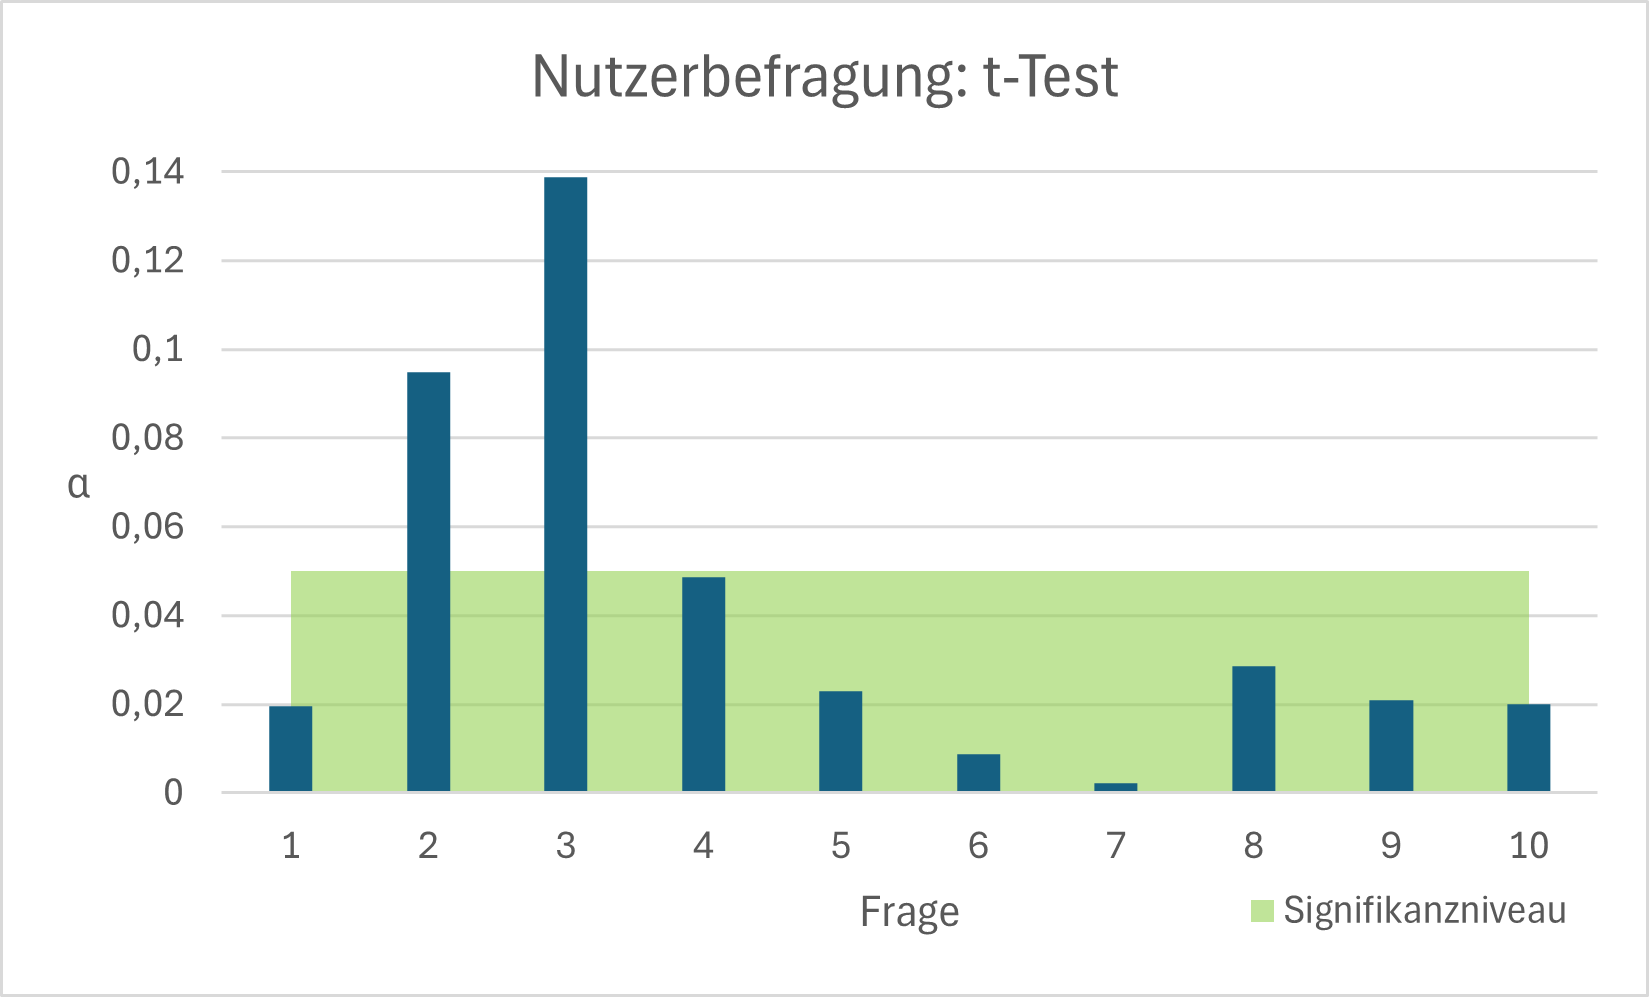
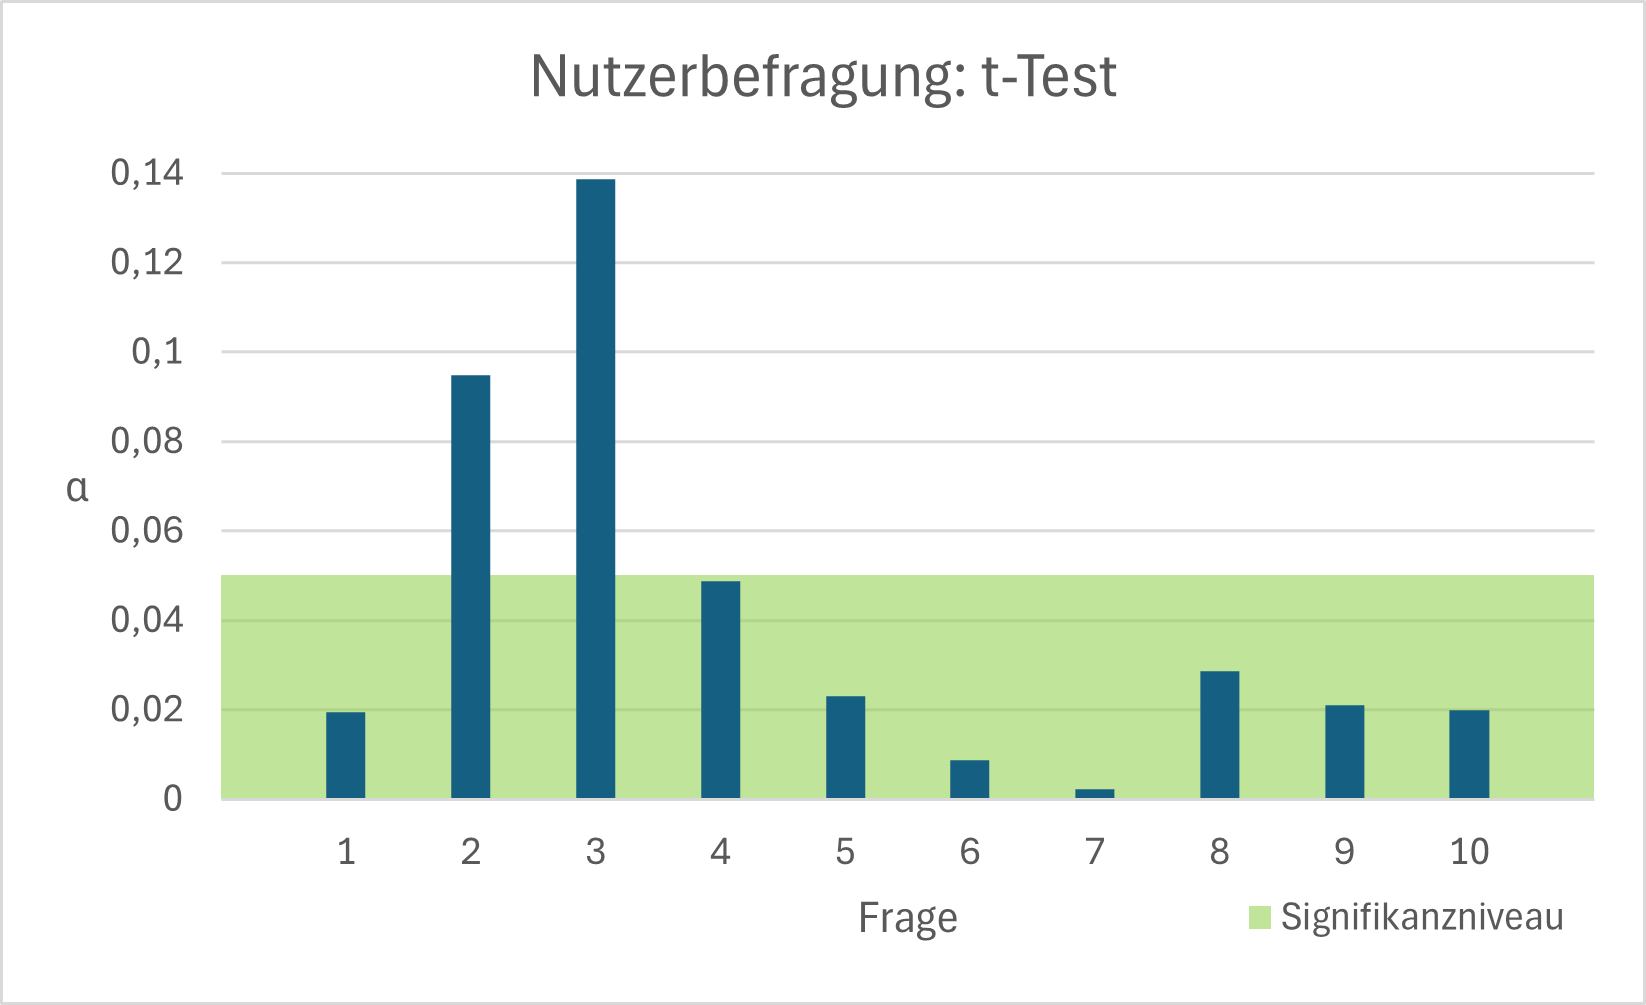
Zufriedenheit fertig

diff --git a/chapters/05_Ergebnisse/06c_Zufriedenheit.tex b/chapters/05_Ergebnisse/06c_Zufriedenheit.tex
@@ -1,28 +1,67 @@
-\subsection{\textcolor{Turquoise}{Auswertung der Zufriedenheit (H$_{3}$)}}
+\subsection{\textcolor{MidnightBlue}{Auswertung der Zufriedenheit (H$_{3}$)}}
 \label{ch:Ergebnisse:sec:Hypothesen_Auswertung:sub:Zufriedenheit}
 % Usability = 
 % - Satisfaction: Do users find the system enjoyable and pleasant to use? Are they satisfied with the overall experience?
 % Einfluss von Erwartungskonformität, Benutzerbindung, Steuerbarkeit
 
-Nutzer sind mit einem System zufrieden oder davon befriedigt, wenn sie die Nutzung angenehm und erfreulich finden. Dafür sollte es den Erwartungen der Nutzer entsprechen, leicht steuer- und navigierbar sein und eine Bindung zum Nutzer aufbauen. Die Zufriedenheit lässt sich dabei nicht in metrischen Kenngrößen erfassen, stattdessen aber in Form eines Spektrums anhand von Fragebögen (s. \autoref{ch:SdF:UI:ISO}).
+Nutzer sind mit einem System zufrieden oder davon befriedigt, wenn sie die Nutzung angenehm und erfreulich finden. Dafür muss es den Erwartungen der Nutzer entsprechen, leicht steuer- und navigierbar sein und eine Bindung zum Nutzer aufbauen. Die Zufriedenheit lässt sich dabei nicht in metrischen Kenngrößen erfassen, stattdessen aber beispielsweise in Form eines Spektrums anhand von Fragebögen (s. \autoref{ch:SdF:UI:ISO}).
 Folgende Hypothese ist zu bestätigen:
 \begin{quote}
     H$_{3}$ = Die Nutzung des neuen Systems ($\mu2$) beeinflusst die Bewertung ($b$) der Software positiv im Vergleich zur Nutzung des alten Systems ($\mu1$); $b(\mu1) < b(\mu2)$.
 \end{quote}
-...
+
+\noindent
+Das Spektrum der Antworten der Nutzerumfrage sind in \autoref{fig:pruemper_all} in Form eines Box-Plot zusammengefasst. Es ist eine Tendenz erkennbar, dass das neue System besser bewertet wurde. 
+
+\begin{figure}[H]
+    \centering
+    \includegraphics[width=1\linewidth]{Diagramme/pruemper_all.png}
+    \caption{Auswertung der Nutzerbefragung (Daten aus \autoref{tab:Nutzerbefragung:rohe_Daten}) \textcolor{red}{Titel ändern! y-Achsenbeschriftungen - gut(3) schlecht(-3)!}}
+    \label{fig:pruemper_all}
+\end{figure}
 
 % Boxplots
-\noindent
-\underline{s. \autoref{fig:pruemper_all}}\\
-- zeigt alle Antworten der Fragen in einem Diagramm\\
-- Tendenz zu neu besser Erkennbar (erst in Diskussion?)\\
-\textcolor{red}{- Kurzbeschreibung: Erklärung, wie Boxplots aufgebaut sind und funktionieren\\
--> 2 Sätze} % hatten wir potenziell in Mathe 2 (beschreibende Statistik)
+\definecolor{graublau}{rgb}{0.74, 0.83, 0.9}
+\noindent\fcolorbox{gray}{graublau}{
+\begin{minipage}[margin=1.5cm]
+{\dimexpr1\textwidth-2\fboxrule-3\fboxsep\relax}
+Ein \textbf{Box-Plot} ist ein Diagramm welches Lage- und Streuungsmaße abbildet. Die Daten werden von von einem Querstrich innerhalb der Box halbiert, welcher den \textit{Median} darstellt. Die \textit{Box} umfasst die mittleren 50\% der nach Rangfolge geordneten Daten. Das bedeutet, dass die Daten von der 25. bis 75. Perzentile oder auch vom 1. bis 3. \textit{Quartil} (Q1, Q3) dargestellt sind. Der Bereich dazwischen wird auch \textit{Interquartilsabstand} (en. interquartile range - IQR) genannt.
+%  Der Querstrich innerhalb der Box markiert den Median.
+
+\hspace{1.5mm}
+Außerhalb der Box stehen die \textit{Whiskers} (dt. Schnurrhaare). Die Länge der Whiskers ist durch den \textit{Zaun}, der Querstrich am Ende der Whiskers, begrenzt. Dieser befindet sich maximal 1,5 Interquartilsabstände von der Box entfernt. Liegt der äußerste Wert des Bereichs innerhalb des Zaun, wird der Whisker kürzer bis zu diesem äußersten Wert dargestellt.
+
+\hspace{1.5mm}
+Die Punkte außerhalb der Whiskers sind die \textit{Ausreißer} und werden hier als Punkte dargestellt. Ausreißer die außerhalb von drei IQR von der Box liegen werden als extreme Ausreißer bezeichnet. Liegen sie zwischen den dem Zaun und 3 IQR, sind es normale Ausreißer.\\
+
+\newenvironment{nospaceflalign*}
+ {\setlength{\abovedisplayskip}{0pt}\setlength{\belowdisplayskip}{0pt}%
+  \csname flalign*\endcsname}
+ {\csname endflalign*\endcsname\ignorespacesafterend}
+
+\underline{Beispiel Frage 4 - neues System (Daten aus \autoref{tab:Nutzerbefragung:rohe_Daten}):}
+\begin{nospaceflalign*}
+    \displaystyle
+        \text{Q1} &= \textbf{1}\\
+        \text{Q3} &= \textbf{2}\\
+        \text{IQR} &= Q3 - Q1 = 2 - 1 = \textbf{1}\\
+        \text{Whisker unten} &= Q1 - 1,5 * IQR = 1 - 1.5*1 = \textbf{-0.5} \Rightarrow 0\\
+        \text{Whisker oben} &= Q3 + 1,5 * IQR = 2 + 1.5*1 = \textbf{3.5} \Rightarrow 3\\
+        \text{Ausreißer} &: ~~\textbf{-2}
+\end{nospaceflalign*}
+\textcolor{graublau}{.}\hfill $\sim$ Zusammenfassung nach \cite{Statistik:Sedlmeier:2018}
+%Q1 $= \textbf{1}$\\
+%Q3 $= \textbf{2}$\\
+%IQR $= Q3 - Q1 = 2 - 1 = \textbf{1}$\\
+%hisker unten $= Q1 - 1,5 * IQR = 1 - 1.5*1 = \textbf{-0.5}$\\
+%hisker oben $= Q3 + 1,5 * IQR = 2 + 1.5*1 = \textbf{3.5}$\\
+%Ausreißer: $\textbf{-2}$
+\label{Definition_Boxplot}
+\end{minipage}}\\
 
 \noindent
-\underline{s. \autoref{tab:Nutzerbefragung:mittelwerte}}\\
-- Mittelwerte, Median, Standardabweichung\\
-- Differenzen
+Diese grafische Tendenz bestätigt sich durch die Differenzen der Mittelwerte (s. \autoref{tab:Nutzerbefragung:Differenz+ttest}). Der Ergebnis des alten Systems wurde von dem des neues Systems abgezogen. Da die Differenz bei jeder Frage positiv ist, wurde das neue System insgesamt besser bewertet als das alte.
+
 
 \begin{table}[H]
 \begin{center}
@@ -41,24 +80,31 @@ T-Test                                  & 0,0087 & 0,0021 & 0,0286 & 0,021 & 0,0
 \end{center}
 \end{table}
 
+\noindent
+Weiterhin weisen 80\% der Fragen anhand der t-Test-Ergebnisse einen statistisch signifikanten Unterschied auf (s. \autoref{fig:Nutzerbefragung:ttest+Signifikanzniveau}).
+
 \begin{figure}[H]
     \centering
     \includegraphics[width=0.8\linewidth]{Diagramme/pruemper_ttest.png}
-    \caption{Nutzerbefragung - T-Test-Ergebnisse (Daten aus \autoref{tab:Nutzerbefragung:Differenz+ttest})}
+    \caption{Nutzerbefragung - t-Test-Ergebnisse (Daten aus \autoref{tab:Nutzerbefragung:Differenz+ttest})}
     \label{fig:Nutzerbefragung:ttest+Signifikanzniveau}
 \end{figure}
 
-\noindent
-\underline{s. \autoref{tab:Nutzerbefragung:Differenz+ttest}}\\
-- Excel-Formel gleiche wie in \autoref{ch:Ergebnisse:sec:Hypothesen_Auswertung:sub:Bsp_TTest}\\
-- volle Excel-Daten in \autoref{fig:Usability_Test:rohe_Daten}\\
-
 % *******************************************************************
-\noindent
-\textcolor{red}{TODO: ISO-Grafiken}
 %\input{chapters/06_Diskussion/ISO_Erwartungskonformität}
 %\input{chapters/06_Diskussion/ISO_Benutzerbindung}
 %\subsection*{Einfluss von ISO-Steuerbarkeit}
 %\autoref{fig:pruemper_Steuerbarkeit}
-
 %\subsection*{weitere: Erlernbarkeit}
+
+\noindent
+Die ISO-Prinzipien die sich auf das Kriterium der Zufriedenheit beziehen, sind die Erwartungskonformität (s. \autoref{fig:pruemper_Erwartungskonformität}), die Steuerbarkeit (s. \autoref{fig:pruemper_Steuerbarkeit}) und die Benutzerbindung welche nicht durch den Fragebogen repräsentiert wurde (s. \autoref{Add:Nutzerbefragung_Prümper:Begründung_Filterung}).
+
+Aufgrundlage der vorliegenden Ergebnisse kann die Hypothese $H_3$ akzeptiert werden.
+
+\begin{figure}[H]
+    \centering
+    \includegraphics[width=1\linewidth]{Diagramme/pruemper_ek.png}
+    \caption{Auswertung der Fragen bzgl. Gestaltungskriterium Erwartungskonformität nach ISO 9241-110 (Ausschnitt aus \autoref{fig:pruemper_all})}
+    \label{fig:pruemper_Erwartungskonformität}
+\end{figure}

diff --git a/chapters/05_Ergebnisse/06a_Beispiel_TTest.tex b/chapters/05_Ergebnisse/06a_Beispiel_TTest.tex
@@ -4,7 +4,7 @@
 Mithilfe der Ergebnisse aus dem Usability-Test und der Befragung kann auf verschiedenen Ebenen dargestellt werden, welches System besser ist. Dieses ist jedoch nicht ausreichend, um die Nullhypothese eindeutig zu widerlegen. Mithilfe von Signifikanztests, wie dem t-Test, lässt sich eine Aussage treffen, wie wahrscheinlich es ist, dass das Ergebnis zufällig entstanden ist. \cite{Statistik:Sedlmeier:2018}
 
 Der t-Test überprüft den Mittelwertunterschied zwischen 2 Stichproben. Dabei wird zwischen dem t-Test für unabhängige Stichproben, wie beispielsweise der Vergleich von zwei Stichproben aus verschiedenen Populationen, sowie dem t-Test für abhängige Stichproben, wie beispielsweise der Vergleich der selben Nutzergruppe zu zwei verschiedenen Zeitpunkten, unterschieden. \cite{Statistik:Boertz:2006}
-Beim abhängigen t-Test werden die Differenzen der Wertepaare gebildet. Der Rest entspricht einem t-Test mit nur einer Stichprobe. \cite{Statistik:Sedlmeier:2018}
+Beim abhängigen t-Test werden die Differenzen der Wertepaare gebildet. Die eigentliche Rechnung entspricht dabei einem t-Test mit nur einer Stichprobe. \cite{Statistik:Sedlmeier:2018}
 
 Die erhaltenen p-Werte sind dabei keine Indikatoren für die Größe des Effekts. Auch erlauben sie keine Abschätzung der Wahrscheinlichkeit, dass die Null- bzw. Alternativhypothese zutrifft. \glqq Ein p-Wert ist die bedingte Wahrscheinlichkeit für ein Ergebnis (und alle noch extremeren Ergebnisse), unter der Bedingung, dass die Nullhypothese zutrifft.\grqq{} \cite{Statistik:Sedlmeier:2018} Das Signifikanzniveau $\alpha$ für den p-Wert ist eine vorgegebene kleine Irrtumswahrscheinlichkeit und beträgt in der Literatur gängigerweise 5\%. Liegt das Ergebnis des t-Tests darunter, so lässt sich schlussfolgern, dass die beobachtete Abweichung von der Nullhypothese kein Zufall mehr sein kann. Die Gültigkeit der Nullhypothese ist sehr unwahrscheinlich, wodurch das Ergebnis statistisch signifikant wird. Damit kann sich gegen die Nullhypothese und für die Alternativhypothese entschieden werden. \cite{Statistik:Sedlmeier:2018}
 
@@ -14,9 +14,8 @@ Das Ergebnis kann dabei positiv und negativ von der Nullhypothese abweichen. Bei
 
 \begin{figure}[H]
     \centering
-    \includegraphics[width=0.8\linewidth]{Diagramme/Signifikanz_b.PNG}
-    \caption{Signifikanzniveau beim einseitigenr und zweiseitigen t-Test \cite{Statistik:Sedlmeier:2018} \textcolor{red}{- Abbildung aus Buch neu scannen?}}
-    \label{fig:Signifikanzniveau_TTest}
+    \includegraphics[width=0.8\linewidth]{Diagramme/Signifikanz_c4.PNG}
+    \caption{Signifikanzniveau beim einseitigenr und zweiseitigen t-Test \cite{Statistik:Sedlmeier:2018}}    \label{fig:Signifikanzniveau_TTest}
 \end{figure}
 
 % ************************************************************

diff --git a/Anhänge/Nutzerbefragung/rohe_Daten.tex b/Anhänge/Nutzerbefragung/rohe_Daten.tex
@@ -1,5 +1,5 @@
-\section{Vollständige und rohe Ergebnisse der Nutzerbefragung}
-\textcolor{red}{TODO: t-Test Daten} \label{tab:Nutzerbefragung:ttest}
+\newpage
+\section{Vollständige Ergebnisse der Nutzerbefragung}
 
 \begin{table}[H]
     \centering
@@ -9,12 +9,12 @@
 \end{table}
 
 % Boxplots
-\begin{figure}[H]
-    \centering
-    \includegraphics[width=1\linewidth]{Diagramme/pruemper_all.png}
-    \caption{Auswertung der Nutzerbefragung (Daten aus \autoref{tab:Nutzerbefragung:rohe_Daten}) \textcolor{red}{Titel ändern! y-Achsenbeschriftungen - gut(3) schlecht(-3)!}}
-    \label{fig:pruemper_all}
-\end{figure}
+%\begin{figure}[H]
+%    \centering
+%    \includegraphics[width=1\linewidth]{Diagramme/pruemper_all.png}
+%    \caption{Auswertung der Nutzerbefragung (Daten aus \autoref{tab:Nutzerbefragung:rohe_Daten}) \textcolor{red}{Titel ändern! y-Achsenbeschriftungen - gut(3) schlecht(-3)!}}
+%    \label{fig:pruemper_all_Anhang}
+%\end{figure}
 
 % Tabelle
 \begin{table}[H]

diff --git a/Anhänge/Usability-Test/rohe_Daten.tex b/Anhänge/Usability-Test/rohe_Daten.tex
@@ -1,12 +1,12 @@
 \newpage
-\section{Vollständige und rohe Ergebnisse des Usability Test}
+\section{Vollständige Ergebnisse des Usability Test}
 
-\begin{figure}[H]
+\begin{table}[H]
     \centering
     \includegraphics[width=1\linewidth]{}
-    \caption{\textcolor{red}{TODO: snippet von der Excel-Tabelle + Formel (Zeit + Fehler}}
+    \caption{\textcolor{red}{TODO: snippet von der Excel-Tabelle + Formel (Zeit + Fehler)}}
     \label{fig:Usability_Test:rohe_Daten}
-\end{figure}
+\end{table}
 
 % *********************************************************************************
 

diff --git a/Anhänge/Nutzerbefragung/Fragebogen.tex b/Anhänge/Nutzerbefragung/Fragebogen.tex
@@ -38,6 +38,7 @@ Es handelt sich für diesen Use-Case (Testpoolmonitoring) ausschließlich um die
     \item Die Software lässt sich von mir leicht erweitern, wenn für mich neue Aufgaben entstehen. (Ik1) % (Sw26)
 \end{itemize}
 
+\newpage
 \section{gekürzter Fragebogen der Nutzerbefragung nach Prümper}
 \label{Add:Nutzerbefragung_Prümper:gekürzter_Fragebogen}
 
